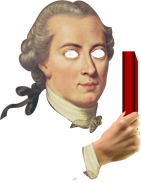
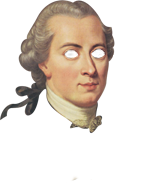
change

Changed region(s): [[0.5674, 0.2732, 1.0, 0.9836]]

diff --git a/javascripts/player.js b/javascripts/player.js
@@ -2,23 +2,27 @@
 
 var Player = function() {
     this.face = createSprite();
+    this.face.offset = new p5.Vector(0, -130);
     this.face.timer = 0; // for animation change
-    this.face.immovable = true;
     this.hand = createSprite();
+    this.hand.offset = new p5.Vector(59, -129 / 2);
+    this.hand.immovable = true;
+    this.handVelX = 0;
+    // this.hand.debug = true;
 
     // Create Event. Set function as a var to pass it somewhere, should run once
     var self = this; // correct scope to use global variables
-    this.onLoose = function(){
-    	self.face.changeImage('loose');
-    	self.face.timer = 60;
+    this.onLoose = function() {
+        self.face.changeImage('loose');
+        self.face.timer = 60;
     }
-    this.onWin = function(){
-    	self.face.changeImage('win');
-    	self.face.timer = 60;
+    this.onWin = function() {
+        self.face.changeImage('win');
+        self.face.timer = 60;
     }
 }
-Player.prototype.getPaddle = function(){
-	return this.face;
+Player.prototype.getPaddle = function() {
+    return this.hand;
 }
 
 Player.prototype.setupEyes = function(image, posL, posR) {
@@ -27,6 +31,7 @@ Player.prototype.setupEyes = function(image, posL, posR) {
     this.eyeL.sprite.depth -= this.face.depth + 1;
     this.eyeR.sprite.depth -= this.face.depth + 2;
 }
+
 function calcEyeOffset(img, posx, posy) {
     return new p5.Vector(posx - img.width / 2, posy - img.height / 2);
 }
@@ -37,16 +42,30 @@ Player.prototype.addHandImage = function(image) {
     this.hand.addImage(image);
 }
 Player.prototype.update = function(pos, targetPos) {
-	// update pos
-    this.face.position.set(pos);
+    // update pos
+    // this.face.velocity.x = (mouseX-this.face.position.x)/10;
+    this.face.position.x = pos.x;
+    this.face.velocity.y = (mouseY + this.face.offset.y - this.face.position.y) / 10;
+
+    if (mouseX > 100) {
+        this.hand.velocity.x = ( 100 + this.hand.offset.x - this.hand.position.x) / 5;
+    }else{
+        
+        this.hand.velocity.x = ( mouseX + this.hand.offset.x - this.hand.position.x) / 5;
+    }
+    this.hand.position.y = mouseY + this.hand.offset.y;
+    
+    // set velocity to uset it on ball acceleration
+    this.handVelX = Math.abs(this.hand.velocity.x);
+
     this.eyeL.setLookAt(targetPos.x, targetPos.y);
-    this.eyeL.setPos(pos.x, pos.y);
+    this.eyeL.setPos(pos.x, this.face.position.y);
     this.eyeR.setLookAt(targetPos.x, targetPos.y);
-    this.eyeR.setPos(pos.x, pos.y);
+    this.eyeR.setPos(pos.x, this.face.position.y);
 
     // update timer for faces
     if (this.face.timer == 0) {
-    	this.face.changeImage('normal');
+        this.face.changeImage('normal');
     }
     this.face.timer--;
 }

diff --git a/javascripts/ball.js b/javascripts/ball.js
@@ -2,8 +2,10 @@
 var Ball = function(image){ 
     this.sprite = createSprite(width/2, height/2, 10, 10);
     this.sprite.addImage(image);
-    this.maxSpeed = 10;
-    this.sprite.maxSpeed = 10;
+    this.maxSpeed = 5;
+    this.handSpeed = 5;
+    this.sprite.maxSpeed = 40;
+    this.sprite.delay = 0;
     this.sprite.setSpeed(10, -180);
     // delegate
     this.onLooseFunc = [];
@@ -12,10 +14,10 @@ var Ball = function(image){
     this.onRightCollideFunc = [];
     this.onWallCollideFunc = [];
     // colliders
-    this.paddleLeft = createSprite();
-    this.paddleRight = createSprite();
-    this.wallTop = createSprite();
-    this.wallBottom = createSprite();
+    this.paddleLeft ;
+    this.paddleRight;
+    this.wallTop ;
+    this.wallBottom ;
 };
 Ball.prototype.onLoose = function(func){ // subscribe to loose event
     this.onLooseFunc.push(func);
@@ -36,24 +38,33 @@ Ball.prototype.pos = function(){ // get ball position
     return this.sprite.position;
 };
 Ball.prototype.update = function() {
+    
     if(this.sprite.bounce(this.wallTop)){
         for (var i = 0; i < this.onWallCollideFunc.length; i++) { // run every subscribed function in array
             this.onWallCollideFunc[i]();
         }
     }
-    if(this.sprite.bounce(this.wallBottom)){
+    if(this.sprite.bounce(this.wallBottom) ){
         for (var i = 0; i < this.onWallCollideFunc.length; i++) { // run every subscribed function in array
             this.onWallCollideFunc[i]();
         }
     }
 
-    if(this.sprite.bounce(this.paddleLeft)){ // paddle left collide
+    // to avoid multiple colliding 
+    var available = this.sprite.delay < 0 ? true : false;
+
+    if(this.sprite.bounce(this.paddleLeft) && available){ // paddle left collide
+        this.sprite.delay = 4;
+        this.maxSpeed = this.handSpeed;
+
         for (var i = 0; i < this.onLeftCollideFunc.length; i++) { // run every subscribed function in array
             this.onLeftCollideFunc[i]();
         }
         var swing = (this.sprite.position.y-this.paddleLeft.position.y)/3;
         this.sprite.setSpeed(this.maxSpeed, this.sprite.getDirection()+swing);
     }
+    this.sprite.delay--;
+
     if(this.sprite.bounce(this.paddleRight)){ // paddle right collide
         for (var i = 0; i < this.onRightCollideFunc.length; i++) { // run every subscribed function in array
             this.onRightCollideFunc[i]();

diff --git a/sketch.js b/sketch.js
@@ -12,7 +12,7 @@ var quote;
 var quoteStrings;
 
 // images
-var eyeImage, rectImage;
+var eyeImage, rectImage, handImg;
 
 
 // sounds
@@ -42,6 +42,7 @@ function preload() {
     pongWallSound = loadSound('Assets/sounds/ballTable.mp3');
     // images
     rectImage = loadImage('Assets/images/rect_10px.png');
+    handImg = loadImage('Assets/images/hand.png');
     eyeImage = loadImage('Assets/images/eye.png');
     kantPlain = loadImage('Assets/images/kant.png');
     kantSad = loadImage('Assets/images/kant_sad.png');
@@ -103,6 +104,7 @@ function setupPlayer() {
     player.addFaceImage('normal', kantPlain);
     player.addFaceImage('loose', kantSad);
     player.addFaceImage('win', kantHappy);
+    player.hand.addImage(handImg);
     // create eyes
     player.setupEyes(eyeImage, new p5.Vector(71, 54), new p5.Vector(99, 54)); // eye pos in px mesured in photoshop according to sprite
     // subscribe to event when ball loose
@@ -148,6 +150,7 @@ function drawQuote() {
 }
 
 function updateBall() {
+    ball.handSpeed = map(player.handVelX, 0, 9, 5, 20);
     ball.update();
 }
 

diff --git a/javascripts/AIPlayer.js b/javascripts/AIPlayer.js
@@ -1,11 +1,10 @@
 var AIPlayer = function() {
     this.smooth = 0.97;
     this.sprite = createSprite(width - 10, height, 10, 100);
-    this.sprite.debug = true;
     this.paddleSprite = createSprite(width - 10, height, 10, 100);
     this.paddleSprite.immovable = true;
 
-    this.sprite.rotationSpeed = 3;
+    this.sprite.rotationSpeed = 1.5;
     this.pos = new p5.Vector(width - 20, height/2);
 }
 AIPlayer.prototype.getPaddle = function() {

diff --git a/javascripts/quote.js b/javascripts/quote.js
@@ -13,7 +13,6 @@ var Quote = function() {
     this.textSize = 30;
     this.image;
     this.curQuoteName = 'Dekart';
-    this.sprite = createSprite();
     this.bounds = new p5.Vector(170, 500); // text area
     this.textPos = new p5.Vector(width / 2 - this.bounds.x / 2, 100); // center to the screen
 
